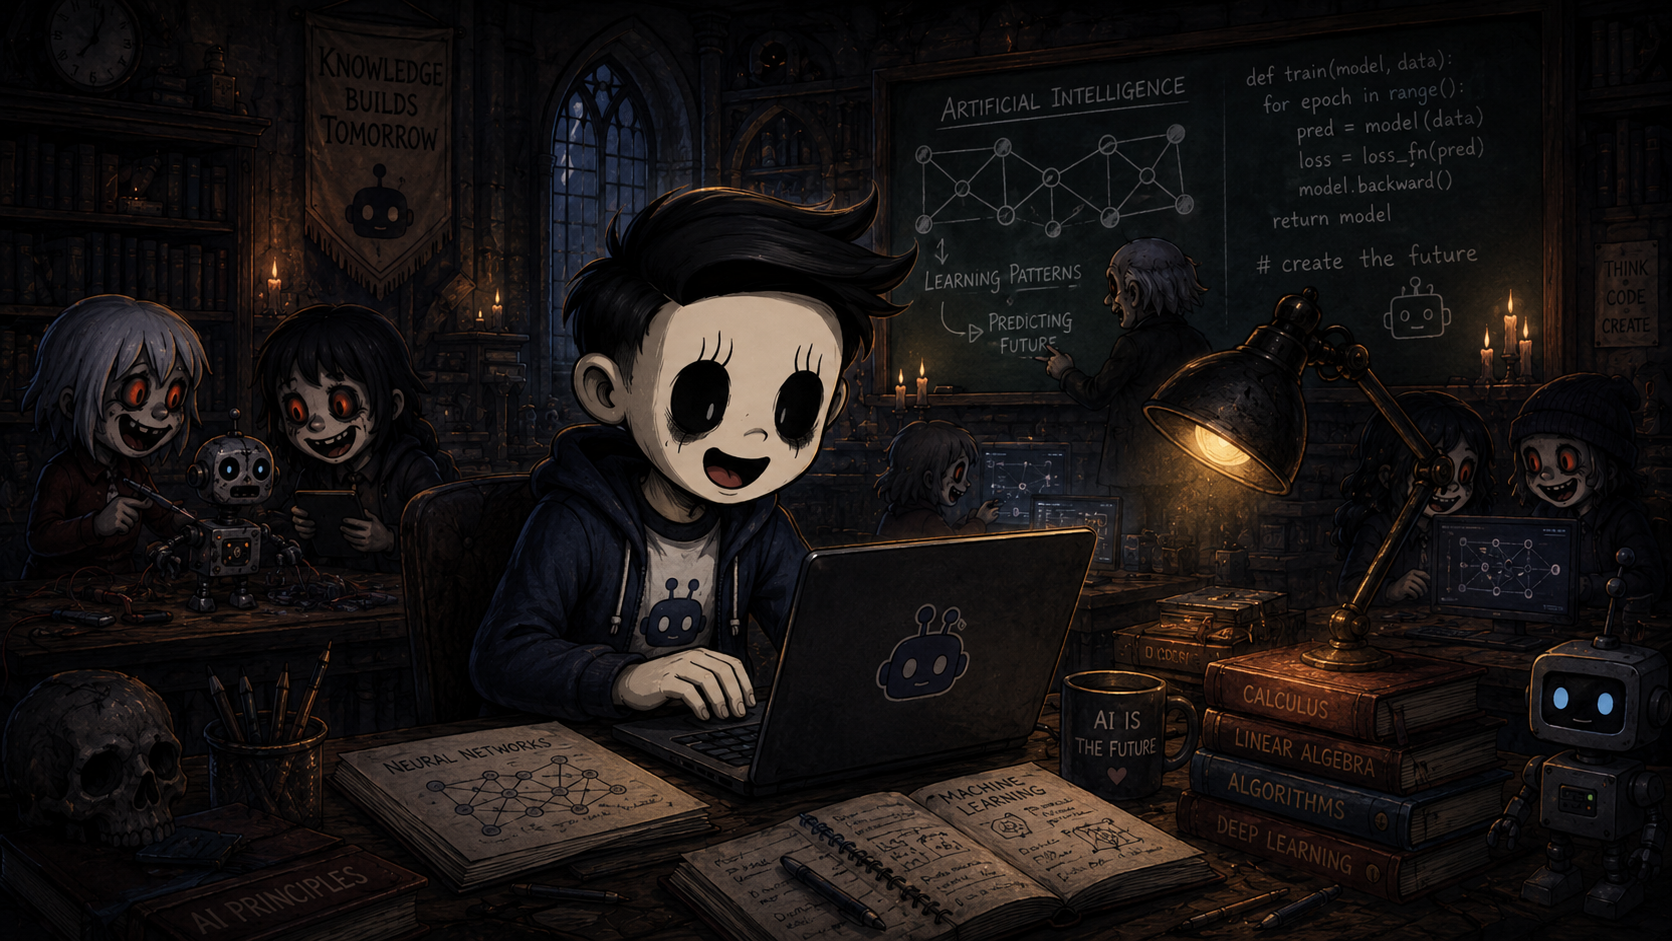
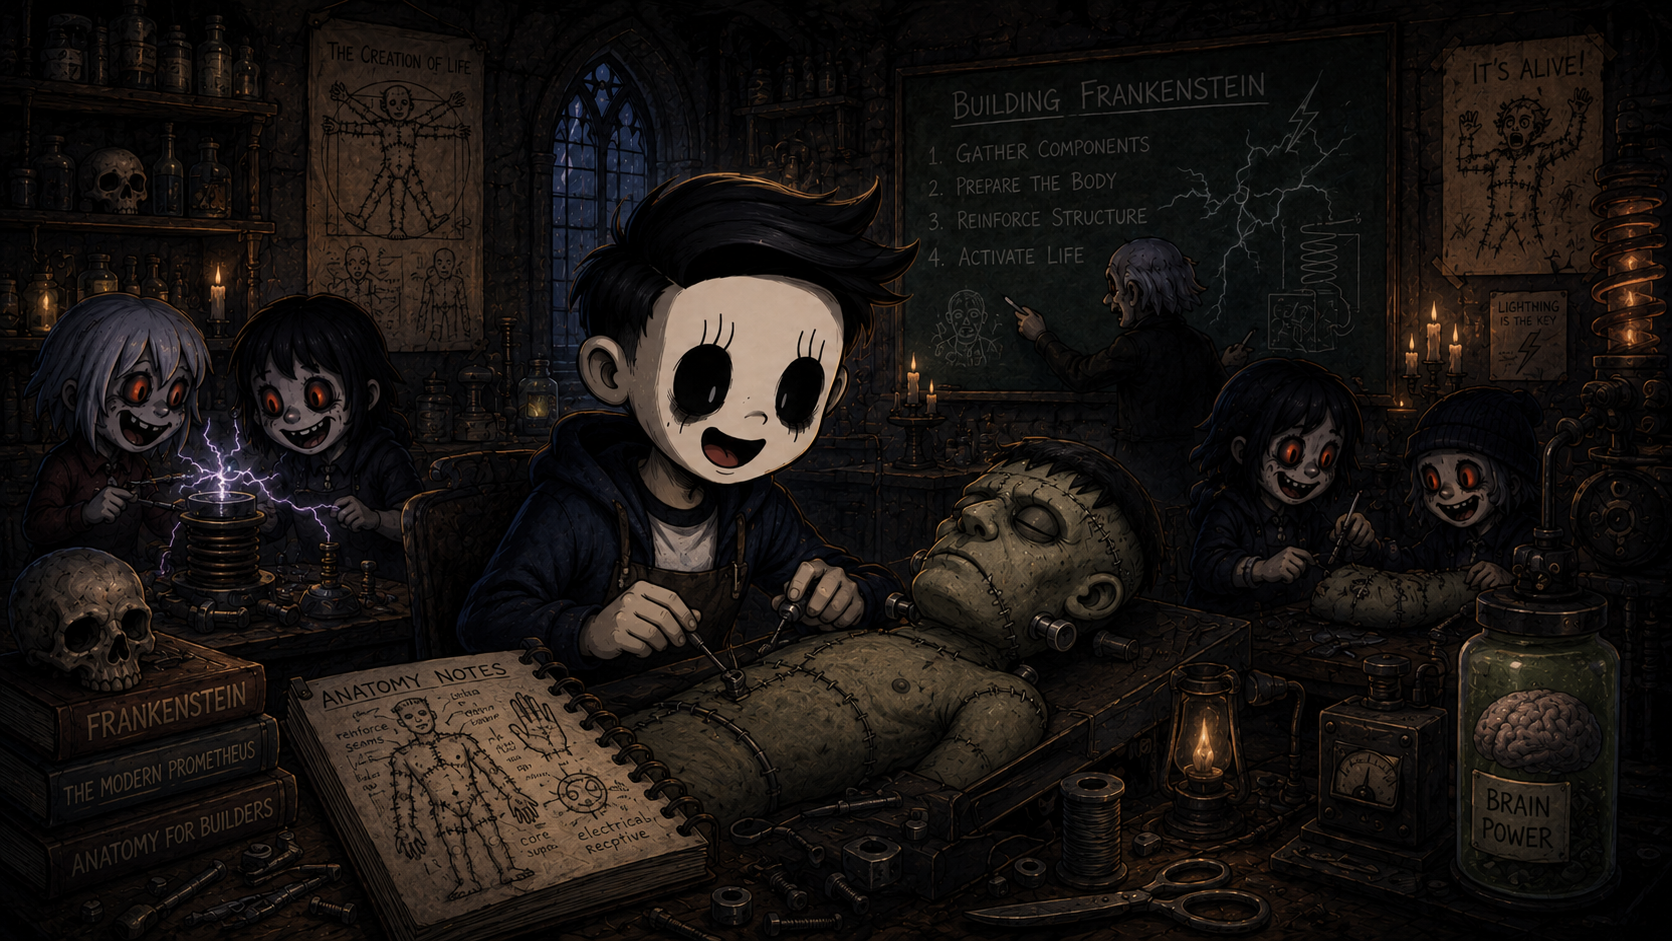
update cutscene art

diff --git a/FolkloreGameJam/AGENTS.md b/FolkloreGameJam/AGENTS.md
@@ -1,8 +1,4 @@
 <!-- UNITY CODE ASSIST INSTRUCTIONS START -->
 - Project name: FolkloreGameJam
 - Unity version: Unity 6000.4.6f1
-- Active game object:
-  - Name: Brain
-  - Tag: Food
-  - Layer: Draggable
 <!-- UNITY CODE ASSIST INSTRUCTIONS END -->
